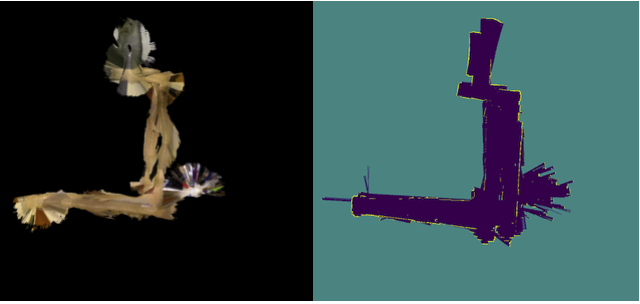
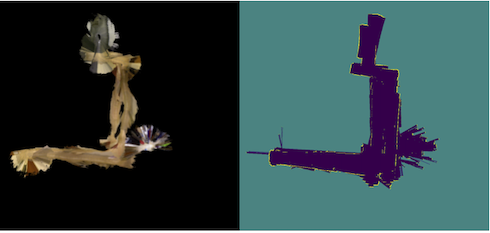
fixes

diff --git a/index.html b/index.html
@@ -175,7 +175,7 @@
               <td style="padding:20px;width:25%;vertical-align:middle">
                 <div class="one">
                   <div class="two" id='diverdi_image'><img src='images/particlefilter.png'></div>
-                  <img src='images/particlefilter.png' width="160" height="auto">
+                  <img src='images/particlefilter.png' width="50%">
                 </div>
                 <!-- <script type="text/javascript">
                   function diverdi_start() {
